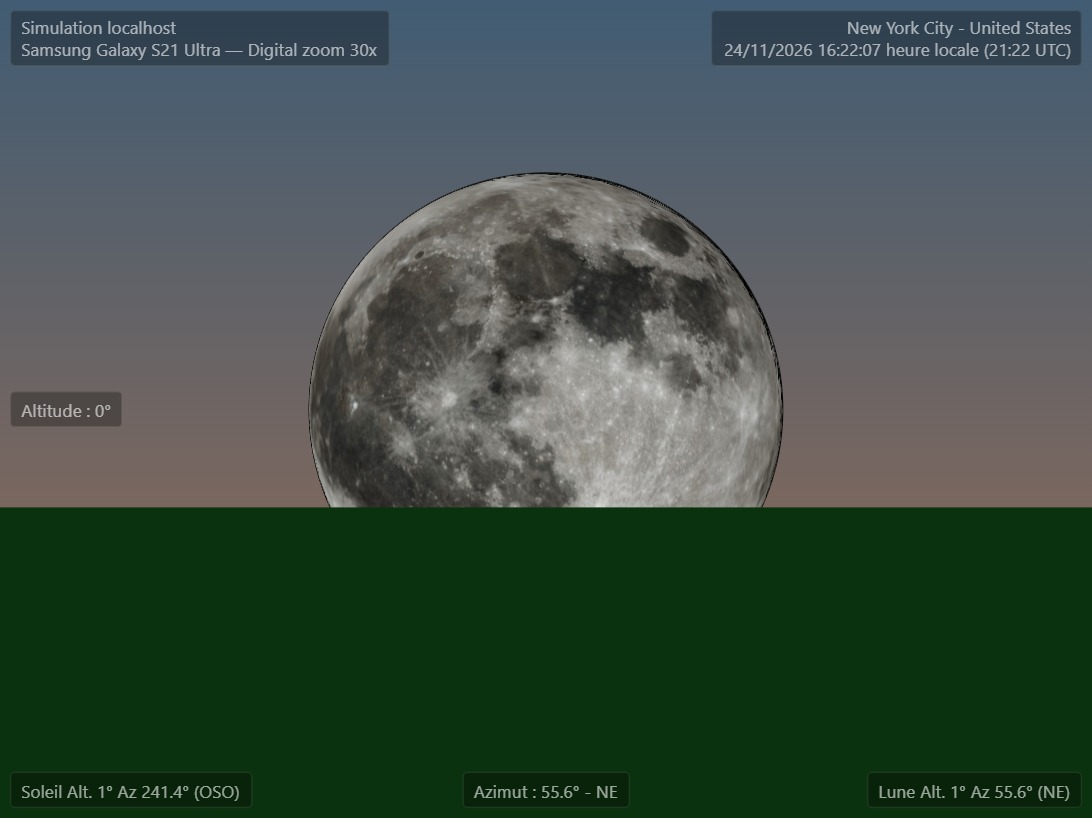
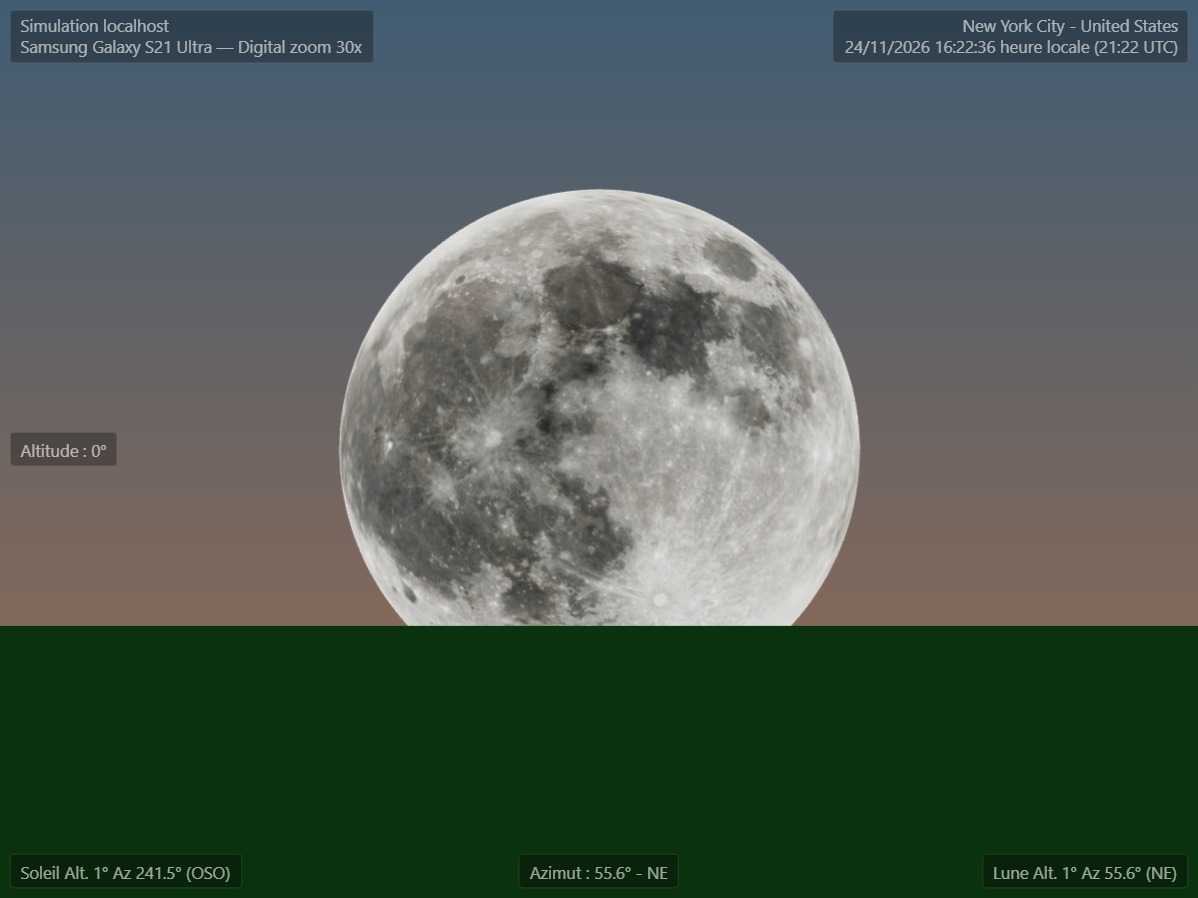
Simulation

diff --git a/src/components/info/tabs/SimulationsTab.tsx b/src/components/info/tabs/SimulationsTab.tsx
@@ -61,7 +61,7 @@ export default function SimulationsTab() {
       img : '/img/examples/export-polaris-crux-equador.jpg'
     },
     {
-      label: 'Éclipse solaire annulaire - cercle de feux — 2024-10-02 (Océan pacifique)',
+      label: 'Éclipse solaire annulaire - cercle de feu — 2024-10-02 (Océan pacifique)',
       desc: 'La Lune, trop petite (apogée), ne couvre pas tout le Soleil: un anneau lumineux subsiste. Intérêt: dynamique des contacts d’annularité et orientation du croissant avant/après. Observation: protection OBLIGATOIRE en continu. Astuce: suivez le Soleil, activez l’horizon et la réfraction pour le cadrage bas sur l’horizon.',
       url: '/?tl=1iis.skq100&lp=5xc&g=3e1ery7k6&tz=America%2FSantiago&t=skqs9f&F=0&p=0&d=custom&k=1&f=kr&b=5z0n&pl=n&sr=1.0167',
       img: '/img/examples/export-eclipse-annulaire-2024.jpg'
@@ -141,7 +141,7 @@ export default function SimulationsTab() {
     {
       label: 'Lever de Pleine Lune au périgée — 2026-11-24 (New York) - Temps réel au smartphone',
       desc: 'Pleine Lune proche du périgée: disque légèrement plus grand. Intérêt: illusions de taille à l’horizon et compression de perspective au téléobjectif. Activez la réfraction, cadrez un repère urbain et simulez minute par minute.',
-      url: '/?tl=uit0jk.tp0z3k&lp=5xc&l=5128581&t=tp0z99&F=1&p=5&d=galaxy-s21u&z=sd30&b=5z07&pl=a&sr=0.0167',
+      url: '/?tl=uit0jk.tp0z3k&lp=5xc&l=5128581&t=tp0zab&F=1&p=5&d=galaxy-s21u&z=sd30&b=5z03&pl=a&sr=0.0167',
       img: '/img/examples/export-pleine-lune-perigee-new-york-2026.jpg'
     },
     {
